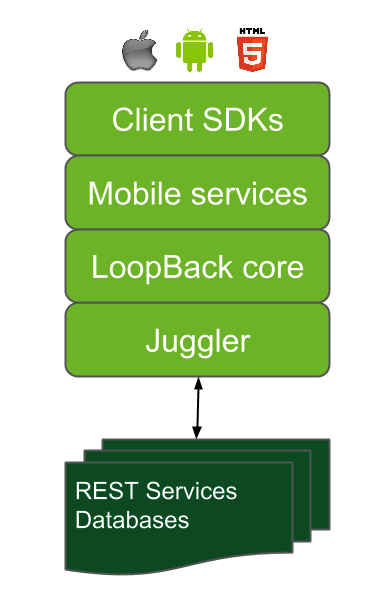
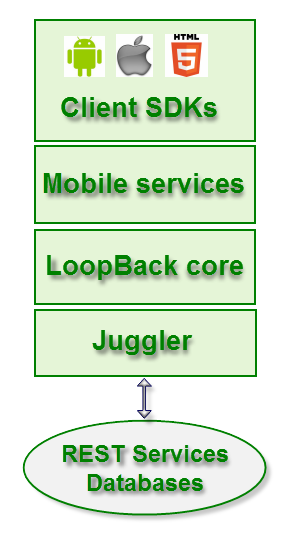
New LB diagram and layout tweaks

diff --git a/index.html b/index.html
@@ -139,12 +139,14 @@
                         <br clear="all"/>
                         
                         <h2>Client SDKs</h2>
-                        <img src="images/sdks.png" id="sdks-img">                                                
-                        <div class="category left">
+                        <div style="width: 500px;">                        
+                        <img src="images/sdks.png" id="sdks-img">
+                        <div class="category left" >
+                            <h3 class="item">Native mobile client SDKs</h3>
                             <ul><li>Android, iOS</li>
                                 <li>JavaScript web client coming soon</li>
                             </ul>
-                        </div>
+                        </div></div>
                         <br clear="all"/>
                         
                         <h2>Juggler</h2>
@@ -185,11 +187,13 @@
                         <br clear="all"/>
                         
                         <h2 class="item">More information</h2>
+                        <div style="margin-right: auto; margin-left: auto; width: 30%;">
                         <ul>
                             <li><a href="http://docs.strongloop.com">Documentation</a></li>
                             <li><a href="http://strongloop.com/strongblog/category/loopback-2/">StrongLoop blog</a></li>
                             <li><a href="http://strongloop.com/strongloop-suite/subscription-plans/">Professional support</a></li>
-                        </ul>                      
+                        </ul>
+                        </div>
                 </div>
 
             </section>

diff --git a/css/styles.css b/css/styles.css
@@ -276,7 +276,7 @@ pre {
 #lb-img {
     float: left;
     margin: 0;
-    height: 373px;
+    height: 432px;
     width: 240px;
 }
 
